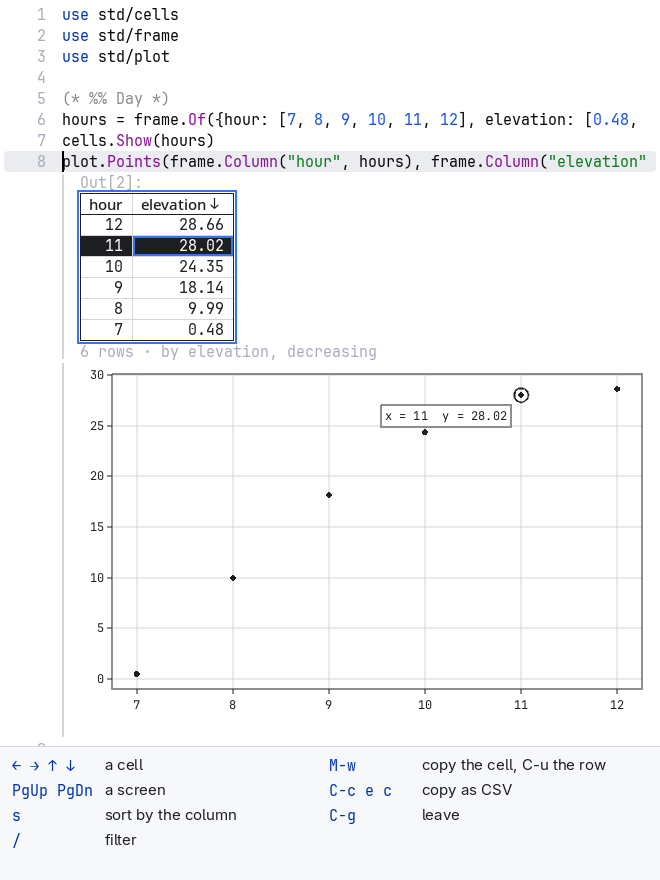
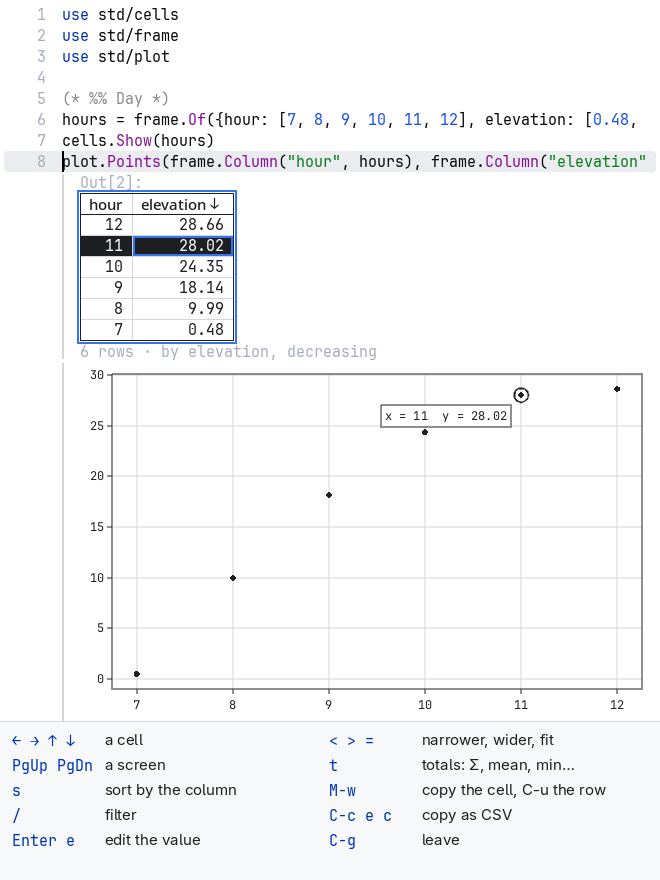
docs: the book tells, in English and in French, the totals of a table that cells.Totals computes in the session, measured on a million rows, and the tables written in the file that cells.Tables reads and cells.Edit edits, the kinds of their columns and what each takes; the shot of the table shows th

diff --git a/docs/fr/book/cells.md b/docs/fr/book/cells.md
@@ -299,7 +299,115 @@ point sous la souris. Un tri ou un filtre garde la position de chaque ligne, Pos
 que soit l'ordre que la table montre. Cemacs dessine ainsi la table et le graphique : la ligne choisie marque son point,
 et un clic sur un point choisit sa ligne, comme le dit [Cemacs](https://www-celestial.github.io/cemacs/cells.html).
 
-![Cemacs sur ce fichier : la table des heures triée par elevation, décroissante, la ligne de 11 et 28.02 choisie, et dessous le graphique des six points, le point de 11 entouré avec sa boîte x = 11, y = 28.02 ; en bas, les touches de la table : les flèches, PgUp et PgDn, s pour trier, / pour filtrer, M-w pour copier, C-c e c pour copier en CSV, C-g pour sortir.](../../book/images/cells-table.png)
+![Cemacs sur ce fichier : la table des heures triée par elevation, décroissante, la ligne de 11 et 28.02 choisie, et dessous le graphique des six points, le point de 11 entouré avec sa boîte x = 11, y = 28.02 ; en bas, les touches de la table : les flèches, PgUp et PgDn, s pour trier, / pour filtrer, Enter et e pour modifier une valeur, < > et = pour la largeur d'une colonne, t pour les totaux, M-w pour copier, C-c e c pour copier en CSV, C-g pour sortir.](../../book/images/cells-table.png)
+
+### Totaux
+
+[cells.Totals] donne, pour chaque colonne d'une table que la session garde, par sa Key ou par le nom qui la tient,
+combien de valeurs elle a, et pour une colonne de nombres leur somme, leur moyenne, la plus petite et la plus grande : sur
+toutes les lignes que son filtre garde, comme [cells.Rows] les filtre, pas seulement sur celles qu'un écran montre. Le
+calcul se fait dans la session, sur des colonnes entières, si bien qu'un frame (une table de colonnes nommées) de $10^6$
+lignes ne traverse jamais. `cells.Totals(session, name, filter = missing)` donne un Ok d'un struct :
+
+| Champ | Contient |
+|---|---|
+| Count | les lignes comptées : celles qui ont les mots du filtre, ou toutes |
+| Total | les lignes de la valeur |
+| Columns | pour chaque colonne, comme [cells.Rows] les donne, `{Name, Count, Missing, Sum, Mean, Min, Max}` |
+
+Le Count d'une colonne est le nombre de ses valeurs qui ne manquent pas, et Missing le nombre de celles qui manquent :
+`missing`, et NaN, un Float qui n'est *pas un nombre* (*not a number*), comme le donne `0.0 / 0.0`, qu'aucun total ne
+saurait lire. Sum, Mean, Min et Max sont la somme, la moyenne, le minimum et le maximum des autres valeurs, pour une
+colonne dont les autres valeurs sont toutes des nombres ; Mean est un Float. Pour une colonne de textes, de `true` et
+`false`, ou d'autres valeurs, les quatre manquent, et Count dit combien de valeurs elle a. Une colonne de nombres dont le
+filtre ne garde aucune ligne a une Sum de 0, et Mean, Min et Max manquent.
+
+Pour une colonne d'un frame de la session, le total est ce que [list.Sum] et [list.Mean] donnent sur ses valeurs qui ne
+manquent pas : `cells.Totals(s, "hours")?.Columns[2].Sum` est `list.Sum(frame.Present(frame.Column("elevation", hours)))`,
+calculé là où est `hours`.
+
+```cesia norun
+use std/cells
+use std/io
+use std/result
+use std/sys
+
+defn Main()
+  cs = cells.Parse(sys.Read("day.ce")?)
+  s = cells.Session("day.ce")?
+  for c in cs
+    cells.Run(s, c)?
+  end
+  t = cells.Totals(s, "hours", filter = "12:")?
+  io.Print(t.Count, " of ", t.Total, " rows, elevation: ", t.Columns[2].Sum, ", mean ", t.Columns[2].Mean)
+  result.Ok(missing)
+end
+```
+
+Un nom qui ne tient pas de table et un filtre qui n'est pas un texte sont chacun un Err, comme pour [cells.Rows]. Un
+filtre que la dernière demande de lignes de la table a déjà cherché n'est pas relu. Les totaux d'un frame de $10^6$
+lignes et 3 colonnes, une colonne d'entiers, une de floats et une de textes, prennent 65 ms dans la session ; filtrés par
+les deux mots `row 12`, que la dernière demande de lignes a cherchés et qui gardent 180 090 lignes, 32 ms (la médiane de
+trois lancements de 21, sur la machine de [Vitesse](speed.md#à-côté-des-géants)). Le travail est natif et sur des
+colonnes entières : les valeurs manquantes d'une colonne d'autres valeurs que des nombres sont cherchées une fois qu'une
+recherche en trouve une, les NaN d'une colonne de floats une fois que sa somme est NaN.
+
+### Tables écrites dans le fichier
+
+Une table est *écrite dans le fichier* quand une cell l'écrit en valeurs : une liste de maps (de dictionnaires), `[{name:
+"Ana", age: 31}, {name: "Bo", age: 20}]`, ou [frame.Of] de listes, `frame.Of({hour: [7, 8, 9], elevation: [0.48, 9.99,
+18.14]})`, par le nom que donne le use de [std/frame] dans la première cell, chaque valeur un nombre, un texte, `true`,
+`false` ou `missing` écrit là, sur une ligne ou sur plusieurs. [cells.Tables] les lit dans le texte d'une cell, comme
+Analyse lit les inputs (les champs du formulaire), sans rien en exécuter : `cells.Tables(cells, i)` donne les tables
+qu'écrit la cell i de [cells.Parse], dans l'ordre où elles commencent, chacune un struct :
+
+| Champ | Contient |
+|---|---|
+| Name | le nom d'une ligne `name = ...` qui donne la table, ou missing pour une table écrite ailleurs, comme dans `cells.Show(...)` |
+| Kind | `"records"` pour une liste de maps, `"frame"` pour frame.Of |
+| Line, Column | où elle commence dans le fichier |
+| Columns | les clés de sa première map, ou les noms de ses colonnes, comme [cells.Rows] les donne |
+| Count | ses lignes |
+| Cells | pour chaque ligne et chaque colonne, `{Value, Line, Column, End}` : la valeur, et où le fichier l'écrit, de sa première colonne à sa dernière, un texte avec ses guillemets ; missing pour une map qui n'écrit pas cette clé |
+| Kinds | pour chaque colonne, ce que tiennent ses valeurs : `"whole"`, des nombres entiers ; `"number"`, des nombres dont l'un au moins est écrit avec un point ; `"text"` ; `"bool"`, `true` et `false` ; ou `"mixed"`, un mélange |
+
+Une plage comme `7..16`, une expression, un texte avec `$name` ou `$(...)` dedans, une map qui écrit deux fois une clé,
+des colonnes de longueurs différentes, une table dans un commentaire ou dans un texte : rien de cela n'est une table écrite
+dans le fichier. Une table de plus de 100 000 valeurs non plus. Le texte est lu par octets, avec les recherches natives de
+[std/text] : une table de 12 lignes et 3 colonnes se lit en 0,15 ms, une de 1 000 lignes en 12 ms (médianes de 21).
+
+[cells.Edit] fait une valeur d'une telle table avec les mots qu'une personne tape : `cells.Edit(table, row, column,
+words)`, la ligne et la colonne à partir de 1, donne un Ok de `{Value, Text, Line, Column, End}`, la valeur, son texte tel
+que le fichier l'écrit, et où l'ancienne est écrite, dont Text prend la place. Le genre de la colonne dit ce qu'elle
+prend :
+
+| Colonne | Prend | Écrit |
+|---|---|---|
+| `"whole"` | un nombre entier, `12`, `-3`, `8.0` | en Int : `12`, `-3`, `8` |
+| `"number"` | un nombre fini | en Float, pour que la colonne reste une colonne de Floats : `12` s'écrit `12.0` |
+| `"text"` | n'importe quel texte | entre guillemets, ses `"`, `\`, `$` et fins de ligne échappés comme les inputs les écrivent |
+| `"bool"` | `true` ou `false` | tel quel |
+| `"mixed"` | une valeur du genre de celle qu'elle remplace ; à la place de `missing`, un nombre, `true` ou `false`, sinon un texte | comme plus haut |
+
+Des mots d'un autre genre sont un Err qui dit ce que la colonne prend, comme `elevation takes a number: ten is none.` ;
+une ligne qui n'écrit aucune valeur dans cette colonne aussi.
+
+```cesia
+use std/cells
+use std/io
+c = cells.Parse("use std/frame\n(* %% Day *)\nhours = frame.Of({hour: [7, 8], elevation: [0.48, 9.99]})")
+t = cells.Tables(c, 2)[1]
+io.Print(cells.Edit(t, 2, 2, "10.5"))
+io.Print(cells.Edit(t, 2, 1, "8.5"))
+```
+
+La première modification donne `Ok({Value: 10.5, Text: "10.5", Line: 3, Column: 51, End: 54})` : le texte `10.5` prend la
+place des colonnes 51 à 54 de la ligne 3, `9.99`. Un éditeur qui l'écrit là, puis relance la cell, garde la règle des
+inputs : le fichier dit la vérité, et `cesia run` calcule ce que l'éditeur montre. Rien d'autre ne bouge dans le
+fichier : un test de propriété (un test qui tire des cas au hasard) écrit des tables au hasard, des frames et des listes
+de maps sur une ligne ou plusieurs, avec des textes de guillemets, de `\`, de `$(...)` et de `<script>`, modifie une
+valeur de chacune, et relit la nouvelle valeur à sa place et toutes les autres comme elles étaient.
+[Cemacs](https://www-celestial.github.io/cemacs/cells.html) modifie ainsi les tables de ses cells.
 
 ## Sliders
 

diff --git a/docs/book/cells.md b/docs/book/cells.md
@@ -273,7 +273,111 @@ filter keeps the position of each row, Positions, so the link holds whatever ord
 table and the graph this way: the row chosen marks its point, and a click on a point chooses its row, as
 [Cemacs](https://www-celestial.github.io/cemacs/cells.html) tells.
 
-![Cemacs on this file: the table of hours sorted by elevation, decreasing, with the row of 11 and 28.02 chosen, and under it the graph of the six points, the point of 11 ringed with its box x = 11, y = 28.02; below, the keys of the table: the arrows, PgUp and PgDn, s to sort, / to filter, M-w to copy, C-c e c to copy as CSV, C-g to leave.](images/cells-table.png)
+![Cemacs on this file: the table of hours sorted by elevation, decreasing, with the row of 11 and 28.02 chosen, and under it the graph of the six points, the point of 11 ringed with its box x = 11, y = 28.02; below, the keys of the table: the arrows, PgUp and PgDn, s to sort, / to filter, Enter and e to edit a value, < > and = for the width of a column, t for the totals, M-w to copy, C-c e c to copy as CSV, C-g to leave.](images/cells-table.png)
+
+### Totals
+
+[cells.Totals] gives, for each column of a table that the session keeps, by its Key or by the name that holds it, how
+many values it holds, and for a column of numbers their sum, their mean, their least and their greatest: over every row
+that its filter keeps, as [cells.Rows] filters them, not only over the rows that a screen shows. It is computed in the
+session, on whole columns, so a frame of $10^6$ rows never crosses. `cells.Totals(session, name, filter = missing)` gives
+an Ok of a struct:
+
+| Field | Holds |
+|---|---|
+| Count | the rows counted: those that hold the words of the filter, or all of them |
+| Total | the rows of the value |
+| Columns | for each column, as [cells.Rows] gives them, `{Name, Count, Missing, Sum, Mean, Min, Max}` |
+
+A column's Count is the number of its values that aren't missing, and Missing the number of those that are: `missing`, and
+NaN, a Float that is *not a number*, as `0.0 / 0.0` gives, which no total could read. Sum, Mean, Min and Max are those of
+the other values, for a column whose other values are all numbers; Mean is a Float. For a column of texts, of `true` and
+`false`, or of other values, the four are missing, and Count says how many values it holds. A column of numbers of which
+the filter keeps none has a Sum of 0, and Mean, Min and Max missing.
+
+For a column of a frame of the session, the total is what [list.Sum] and [list.Mean] give on its values that aren't
+missing: `cells.Totals(s, "hours")?.Columns[2].Sum` is `list.Sum(frame.Present(frame.Column("elevation", hours)))`,
+computed where `hours` is.
+
+```cesia norun
+use std/cells
+use std/io
+use std/result
+use std/sys
+
+defn Main()
+  cs = cells.Parse(sys.Read("day.ce")?)
+  s = cells.Session("day.ce")?
+  for c in cs
+    cells.Run(s, c)?
+  end
+  t = cells.Totals(s, "hours", filter = "12:")?
+  io.Print(t.Count, " of ", t.Total, " rows, elevation: ", t.Columns[2].Sum, ", mean ", t.Columns[2].Mean)
+  result.Ok(missing)
+end
+```
+
+A name that holds no table and a filter that isn't a text are each an Err, as for [cells.Rows]. A filter that the last
+ask of rows of the table matched is not read again. The totals of a frame of $10^6$ rows and 3 columns, a column of
+integers, one of floats and one of texts, take 65 ms in the session; filtered by the two words `row 12`, which the last
+ask of rows matched and which keep 180,090 rows, 32 ms (the median of three runs of 21, on the machine of
+[Speed](speed.md#beside-the-giants)). The work is native and on whole columns: the missing values of a column of other
+values than numbers are looked for once a search finds one, the NaNs of a column of floats once its sum is NaN.
+
+### Tables written in the file
+
+A table is *written in the file* when a cell writes it as values: a list of maps, `[{name: "Ana", age: 31}, {name: "Bo",
+age: 20}]`, or [frame.Of] of lists, `frame.Of({hour: [7, 8, 9], elevation: [0.48, 9.99, 18.14]})`, through the name that
+the use of [std/frame] in the first cell gives, each value a number, a text, `true`, `false` or `missing` written there,
+on one line or spread over many. [cells.Tables] reads them from the text of a cell, as Analyse reads the inputs, and runs
+none of it: `cells.Tables(cells, i)` gives the tables that cell i of [cells.Parse] writes, in the order they start, each a
+struct:
+
+| Field | Holds |
+|---|---|
+| Name | the name of a line `name = ...` that gives the table, or missing for one written elsewhere, as in `cells.Show(...)` |
+| Kind | `"records"` for a list of maps, `"frame"` for frame.Of |
+| Line, Column | where it starts in the file |
+| Columns | the keys of its first map, or the names of its columns, as [cells.Rows] gives them |
+| Count | its rows |
+| Cells | for each row and each column, `{Value, Line, Column, End}`: the value, and where the file writes it, from its first column to its last, a text with its quotes; missing for a map that doesn't write that key |
+| Kinds | for each column, what its values hold: `"whole"`, whole numbers; `"number"`, numbers, one at least written with a point; `"text"`; `"bool"`, `true` and `false`; or `"mixed"` |
+
+A range as `7..16`, an expression, a text with `$name` or `$(...)` in it, a map that writes a key twice, columns of
+different lengths, a table in a comment or in a text: none of these is a table written in the file. A table of more than
+100,000 values is none either. The text is read by bytes, with the native searches of [std/text]: a table of 12 rows and
+3 columns is read in 0.15 ms, one of 1,000 rows in 12 ms (medians of 21).
+
+[cells.Edit] makes a value of such a table out of the words a person types: `cells.Edit(table, row, column, words)`, the
+row and the column from 1, gives an Ok of `{Value, Text, Line, Column, End}`, the value, its text as the file writes it,
+and where the old one is written, which Text takes the place of. The kind of the column says what it takes:
+
+| Column | Takes | Written |
+|---|---|---|
+| `"whole"` | a whole number, `12`, `-3`, `8.0` | as an Int: `12`, `-3`, `8` |
+| `"number"` | a finite number | as a Float, so that the column stays one of Floats: `12` is written `12.0` |
+| `"text"` | any text | in quotes, its `"`, `\`, `$` and ends of line escaped as the inputs write them |
+| `"bool"` | `true` or `false` | as it is |
+| `"mixed"` | a value of the kind of the one it replaces; in place of `missing`, a number, `true` or `false`, or else a text | as above |
+
+Words of another kind are an Err that says what the column takes, as `elevation takes a number: ten is none.`; so is a
+row that writes no value in that column.
+
+```cesia
+use std/cells
+use std/io
+c = cells.Parse("use std/frame\n(* %% Day *)\nhours = frame.Of({hour: [7, 8], elevation: [0.48, 9.99]})")
+t = cells.Tables(c, 2)[1]
+io.Print(cells.Edit(t, 2, 2, "10.5"))
+io.Print(cells.Edit(t, 2, 1, "8.5"))
+```
+
+The first edit gives `Ok({Value: 10.5, Text: "10.5", Line: 3, Column: 51, End: 54})`: the text `10.5` takes the place of columns 51 to
+54 of line 3, `9.99`. An editor that writes it there, then runs the cell again, keeps the rule of the inputs: the file is
+the truth, and `cesia run` computes what the editor shows. Nothing else in the file moves: a property test writes random
+tables, frames and lists of maps on one line or many, with texts of quotes, `\`, `$(...)` and `<script>`, edits a value
+of each, and reads back the new value at its place and every other value as it was.
+[Cemacs](https://www-celestial.github.io/cemacs/cells.html) edits the tables of its cells this way.
 
 ## Sliders
 

diff --git a/CHANGELOG.md b/CHANGELOG.md
@@ -111,6 +111,15 @@
 - A table that a run shows, a frame, a struct or a matrix, has a Key, as a graph has, and the session keeps it with the
   last 64 graphs: `cells.Rows` reads it again by that key, so a value that only a cell's last expression holds scrolls
   too. A list of maps or structs shows as a table, its columns the keys of the first, where it showed as a row of texts.
+- `cells.Totals(session, name, filter = missing)` totals each column of a table of the session over every row its filter
+  keeps, not only those a screen shows: the values that aren't missing, the missing ones, NaN among them, and for a
+  column of numbers their sum, mean, least and greatest, computed in the session on whole columns. The totals of a
+  million rows of 3 columns take 65 ms there.
+- `cells.Tables(cells, i)` reads the tables that a cell writes as values, a list of maps or `frame.Of` of lists, each
+  value a number, a text, true, false or missing written there, with where the file writes each, and runs none of it;
+  `cells.Edit(table, row, column, words)` makes words typed the new value of one, checked for the kind of its column, a
+  number written as a Float in a column of Floats, a text in quotes, with the place its text takes in the file: an
+  editor edits a table as it edits an input, and the file stays the truth.
 - `plot.Scene(..., mark = [i, n])` and `cells.Scene(..., mark = [i, n])` ring point i of each line, points or texts of n
   points at its exact place, even one that M4 left out, write its values in a box beside it, and give Points, the places
   on the screen of those layers' points with their positions: the row of a table of n rows and its point on the graph of
